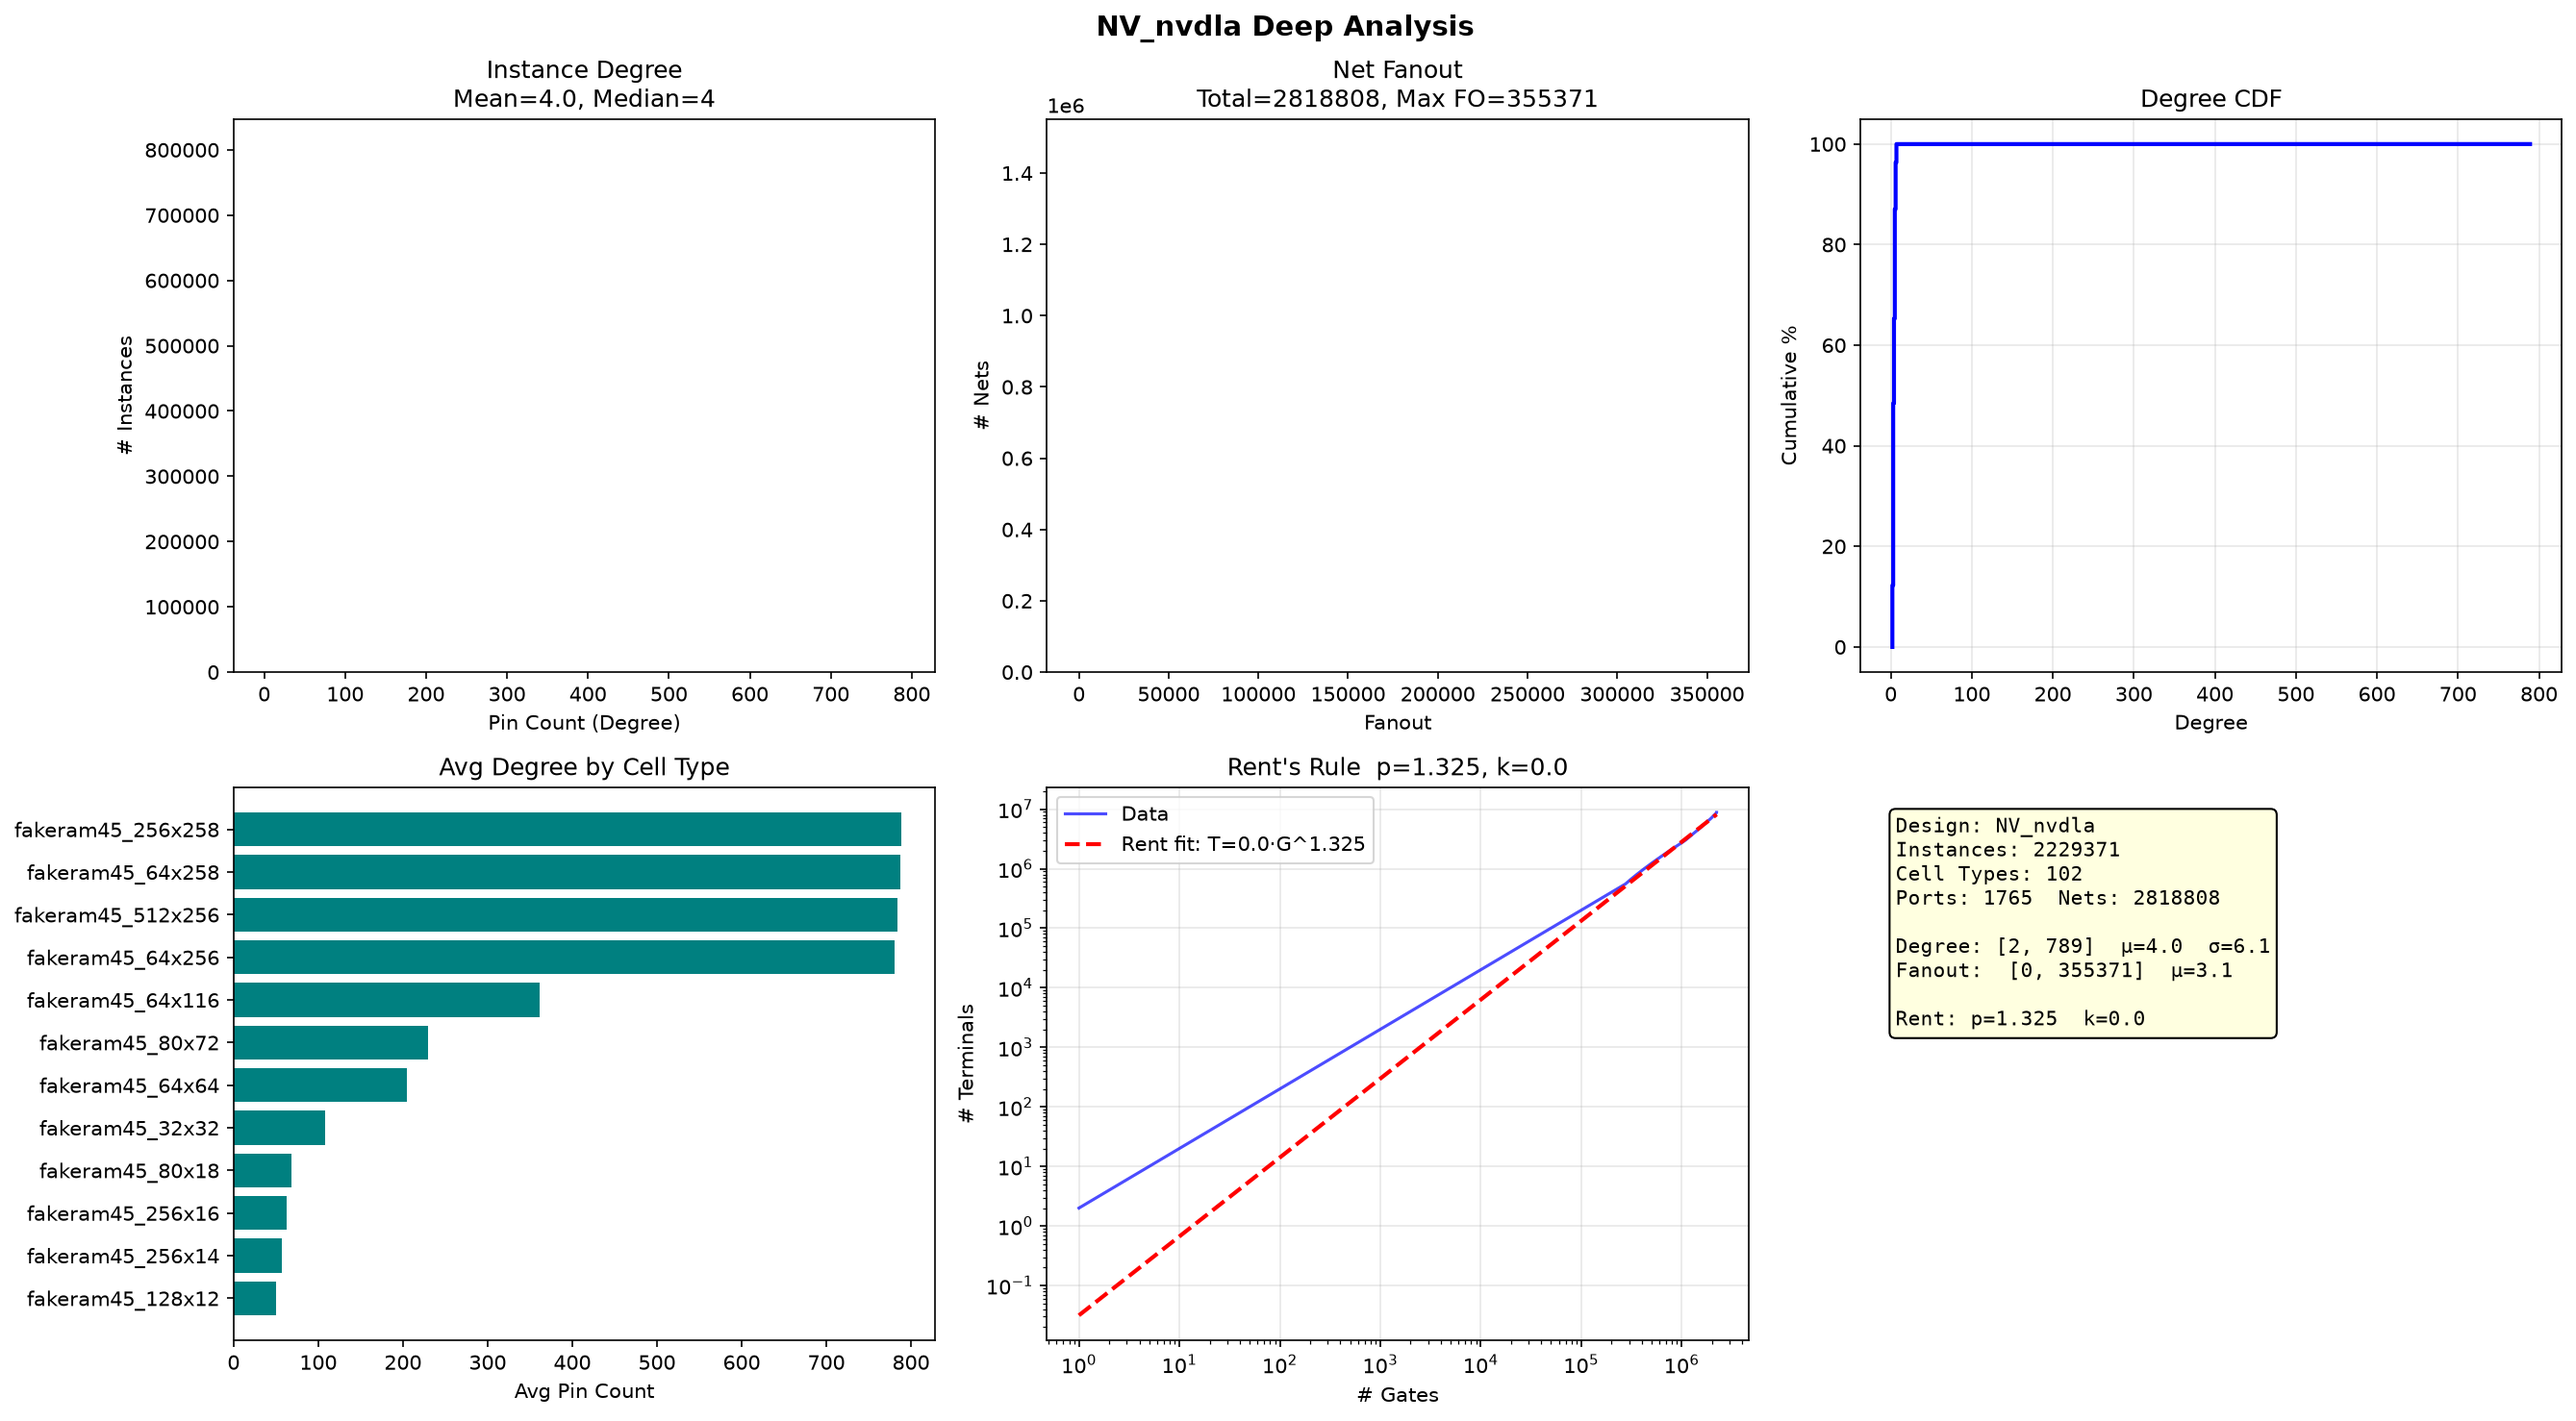
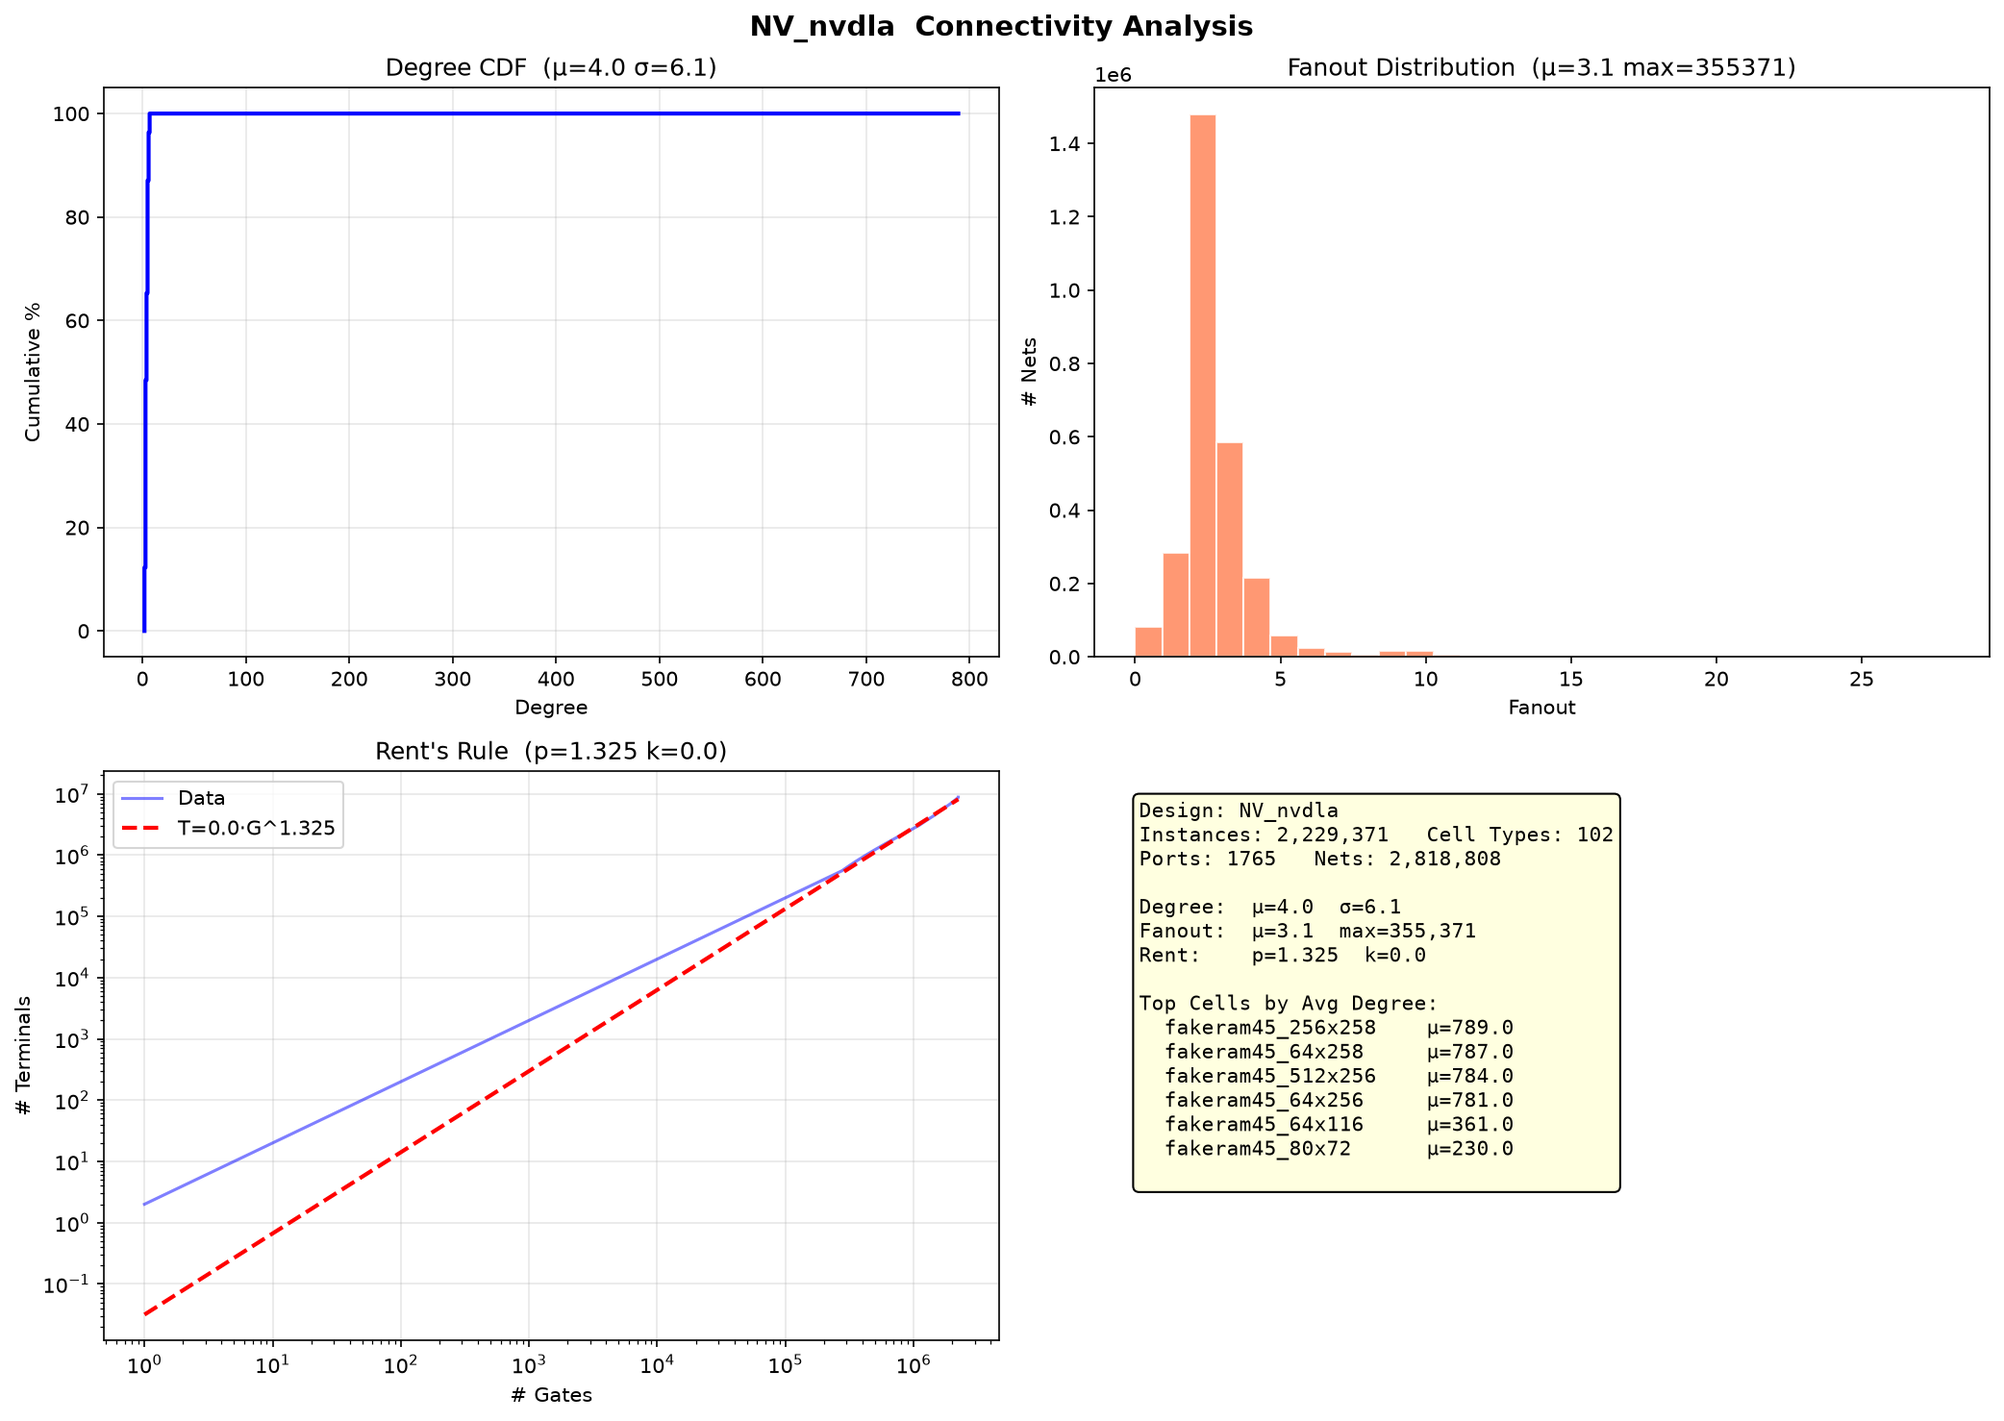
fix connectivity chart: use hist+CDF for large designs

diff --git a/analysis/connectivity_analysis.py b/analysis/connectivity_analysis.py
@@ -7,83 +7,77 @@ matplotlib.use('Agg')
 import matplotlib.pyplot as plt
 import numpy as np
 from collections import Counter
-from src.dizo_utils import load_netlist, count_by_ref, get_inst_degrees, get_net_fanouts, get_cell_categories
+from src.dizo_utils import load_netlist, count_by_ref, get_inst_degrees_with_ref, get_net_fanouts
 
 netlist = sys.argv[1] if len(sys.argv) > 1 else "/home/shared/benchmarks/nangate45_3D/gcd/2_2_floorplan_io.v"
 project, top = load_netlist(netlist)
 
 refs = count_by_ref(top)
-inst_degrees = get_inst_degrees(top)
+inst_degrees, cell_degree = get_inst_degrees_with_ref(top)
 net_fanouts = get_net_fanouts(top)
-cell_cats = get_cell_categories(top, 12)
 
-degree_counter = Counter(inst_degrees)
-fanout_counter = Counter(net_fanouts)
+deg_mean = np.mean(inst_degrees)
+deg_median = np.median(inst_degrees)
+deg_std = np.std(inst_degrees)
+fo_mean = np.mean(net_fanouts)
+fo_max = max(net_fanouts)
+fo_p99 = int(np.percentile(net_fanouts, 99))
 
-fig, axes = plt.subplots(2, 3, figsize=(18, 10))
-
-# 1. Instance Degree Distribution
-ax = axes[0, 0]
-deg_sorted = sorted(degree_counter.items())
-ax.bar(*zip(*deg_sorted), color='steelblue', edgecolor='white')
-ax.set_xlabel('Pin Count (Degree)'); ax.set_ylabel('# Instances')
-ax.set_title(f'Instance Degree\nMean={np.mean(inst_degrees):.1f}, Median={np.median(inst_degrees):.0f}')
-
-# 2. Net Fanout
-ax = axes[0, 1]
-fo_sorted = sorted(fanout_counter.items())
-ax.bar(*zip(*fo_sorted), color='coral', edgecolor='white')
-ax.set_xlabel('Fanout'); ax.set_ylabel('# Nets')
-ax.set_title(f'Net Fanout\nTotal={len(net_fanouts)}, Max FO={max(net_fanouts)}')
-
-# 3. Degree CDF
-ax = axes[0, 2]
-sorted_deg = sorted(inst_degrees)
-ax.plot(sorted_deg, np.arange(1, len(sorted_deg)+1)/len(sorted_deg)*100, 'b-', lw=2)
-ax.set_xlabel('Degree'); ax.set_ylabel('Cumulative %')
-ax.set_title('Degree CDF'); ax.grid(True, alpha=0.3)
-
-# 4. Cell type avg degree
-ax = axes[1, 0]
-cell_degree = {}
-for inst in top.inst_iter():
-    d = sum(1 for _ in inst.pin_iter())
-    cell_degree.setdefault(inst.ref_name, []).append(d)
-top12 = sorted(cell_degree.items(), key=lambda x: -np.mean(x[1]))[:12]
-ax.barh(range(12), [np.mean(t[1]) for t in top12], color='teal')
-ax.set_yticks(range(12)); ax.set_yticklabels([t[0] for t in top12]); ax.invert_yaxis()
-ax.set_xlabel('Avg Pin Count'); ax.set_title('Avg Degree by Cell Type')
-
-# 5. Rent's Rule
-ax = axes[1, 1]
+# Rent's Rule
 deg_arr = np.array(sorted(inst_degrees))
 cg = np.arange(1, len(deg_arr)+1); cp = np.cumsum(deg_arr)
-ax.loglog(cg, cp, 'b-', lw=1.5, alpha=0.7, label='Data')
 start = len(cg)//4
 p, log_k = np.polyfit(np.log10(cg[start:]), np.log10(cp[start:]), 1)
 k = 10**log_k
+
+fig, axes = plt.subplots(2, 2, figsize=(14, 10))
+
+# 1. Degree CDF
+ax = axes[0, 0]
+ax.plot(sorted(inst_degrees), np.arange(1, len(inst_degrees)+1)/len(inst_degrees)*100, 'b-', lw=2)
+ax.set_xlabel('Degree'); ax.set_ylabel('Cumulative %')
+ax.set_title(f'Degree CDF  (μ={deg_mean:.1f} σ={deg_std:.1f})')
+ax.grid(True, alpha=0.3)
+
+# 2. Fanout Distribution (top 99%)
+ax = axes[0, 1]
+fo_clipped = [f for f in net_fanouts if f <= fo_p99 * 2]
+ax.hist(fo_clipped, bins=30, color='coral', edgecolor='white', alpha=0.8)
+ax.set_xlabel('Fanout'); ax.set_ylabel('# Nets')
+ax.set_title(f'Fanout Distribution  (μ={fo_mean:.1f} max={fo_max})')
+
+# 3. Rent's Rule
+ax = axes[1, 0]
+ax.loglog(cg, cp, 'b-', lw=1.5, alpha=0.5, label='Data')
 gf = np.logspace(0, np.log10(max(cg)), 100)
-ax.loglog(gf, k*gf**p, 'r--', lw=2, label=f'Rent fit: T={k:.1f}·G^{p:.3f}')
+ax.loglog(gf, k*gf**p, 'r--', lw=2, label=f'T={k:.1f}·G^{p:.3f}')
 ax.set_xlabel('# Gates'); ax.set_ylabel('# Terminals')
-ax.set_title(f"Rent's Rule  p={p:.3f}, k={k:.1f}"); ax.legend(); ax.grid(True, alpha=0.3)
+ax.set_title(f"Rent's Rule  (p={p:.3f} k={k:.1f})")
+ax.legend(); ax.grid(True, alpha=0.3)
 
-# 6. Summary
-ax = axes[1, 2]; ax.axis('off')
+# 4. Summary + Top cells
+ax = axes[1, 1]; ax.axis('off')
+top_cells = sorted(cell_degree.items(), key=lambda x: -np.mean(x[1]))[:8]
+cell_lines = '\n'.join(f'  {n:<20s} μ={np.mean(d):.1f}' for n, d in top_cells[:6])
+
 info = f"""Design: {top.name}
-Instances: {len(inst_degrees)}
-Cell Types: {len(refs)}
-Ports: {top.port_count()}  Nets: {len(net_fanouts)}
+Instances: {len(inst_degrees):,}   Cell Types: {len(refs)}
+Ports: {top.port_count()}   Nets: {len(net_fanouts):,}
 
-Degree: [{min(inst_degrees)}, {max(inst_degrees)}]  μ={np.mean(inst_degrees):.1f}  σ={np.std(inst_degrees):.1f}
-Fanout:  [{min(net_fanouts)}, {max(net_fanouts)}]  μ={np.mean(net_fanouts):.1f}
+Degree:  μ={deg_mean:.1f}  σ={deg_std:.1f}
+Fanout:  μ={fo_mean:.1f}  max={fo_max:,}
+Rent:    p={p:.3f}  k={k:.1f}
 
-Rent: p={p:.3f}  k={k:.1f}"""
-ax.text(0.05, 0.95, info, transform=ax.transAxes, fontsize=10, verticalalignment='top',
-        fontfamily='monospace', bbox=dict(boxstyle='round', facecolor='lightyellow'))
+Top Cells by Avg Degree:
+{cell_lines}
+"""
+ax.text(0.05, 0.95, info, transform=ax.transAxes, fontsize=10,
+        verticalalignment='top', fontfamily='monospace',
+        bbox=dict(boxstyle='round', facecolor='lightyellow'))
 
-fig.suptitle(f'{top.name} Deep Analysis', fontsize=14, fontweight='bold')
+fig.suptitle(f'{top.name}  Connectivity Analysis', fontsize=14, fontweight='bold')
 plt.tight_layout()
 out = os.path.expanduser(f'~/{top.name}_connectivity.png')
 plt.savefig(out, dpi=150, bbox_inches='tight')
-print(f'Saved: {out}\nRent p={p:.3f} k={k:.1f}  Degree μ={np.mean(inst_degrees):.1f}  Fanout μ={np.mean(net_fanouts):.1f}  [{time.time()-t0:.1f}s]')
+print(f'Saved: {out}\nRent p={p:.3f} k={k:.1f}  Degree μ={deg_mean:.1f}  Fanout μ={fo_mean:.1f}  [{time.time()-t0:.1f}s]')
 project.destroy()

diff --git a/src/dizo_utils.py b/src/dizo_utils.py
@@ -69,3 +69,15 @@ def get_cell_categories(top, top_n=None):
     if top_n:
         sorted_cats = sorted_cats[:top_n]
     return dict(sorted_cats)
+
+
+def get_inst_degrees_with_ref(top):
+    """一次遍历获取 degree 列表 + 按 ref 分组的 degree 列表，返回 (degrees, ref_degrees)"""
+    degrees = []
+    ref_deg = {}
+    for inst in top.inst_iter():
+        d = sum(1 for _ in inst.pin_iter())
+        degrees.append(d)
+        ref = inst.ref_name
+        ref_deg.setdefault(ref, []).append(d)
+    return degrees, ref_deg
